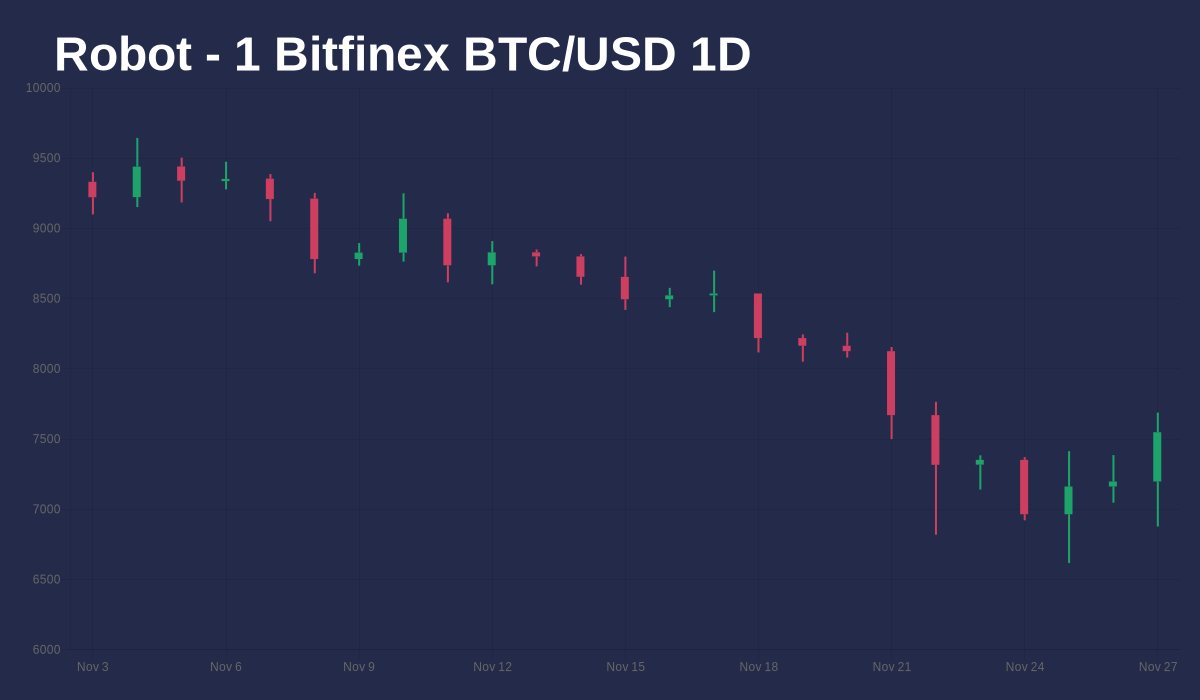
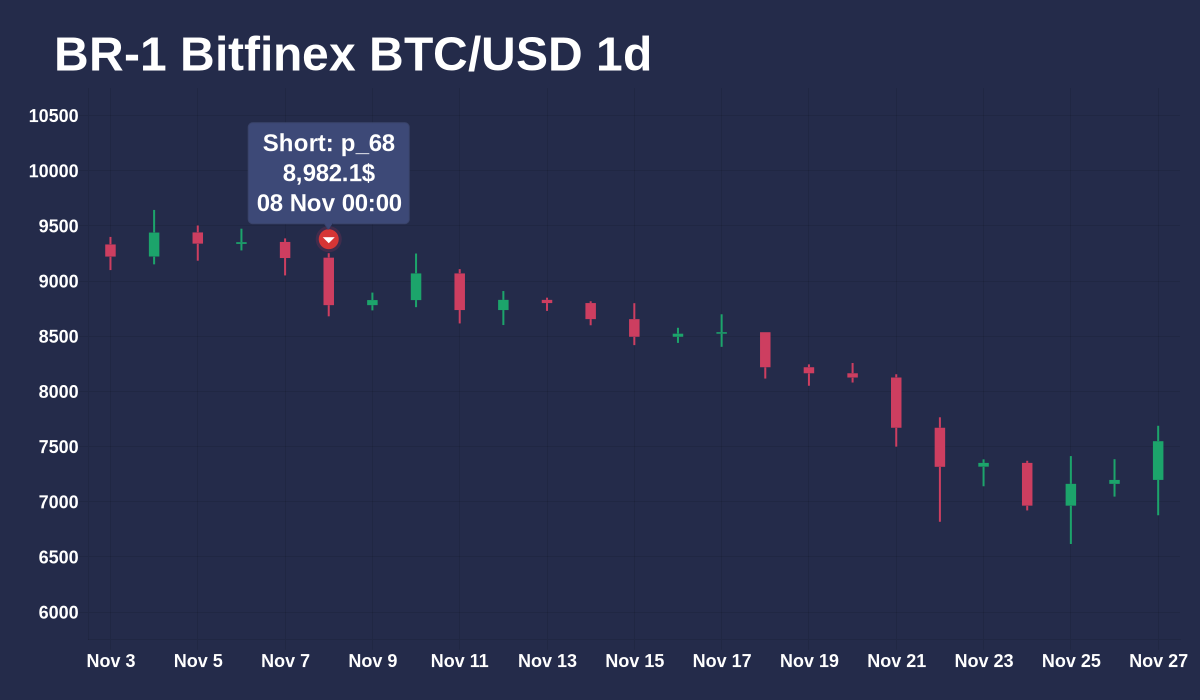
Корректировка отображения

diff --git a/index.js b/index.js
@@ -4,11 +4,13 @@ var chartNode = new ChartjsNode(1200, 700);
 
 const { positions, candles } = require('./data')
 
+const ChartTitle = positions["name"]
+
 const chartData = [];
 const pointData = [];
 
 dataSet(candles);
-setPoints(positions);
+setPoints(positions["robotPositions"]);
 
 const months = {
     '01': 'Jan',
@@ -23,6 +25,13 @@ const months = {
     '10': 'Oct',
     '11': 'Nov',
     '12': 'Dec'
+}
+
+const typeActions = {
+    'short': 'Short',
+    'long': 'Long',
+    'closeShort': 'Close Short',
+    'closeLong': 'Close Long'
 }
 
 chartNode.on('beforeDraw', function (Chart) {
@@ -49,7 +58,7 @@ chartNode.on('beforeDraw', function (Chart) {
     
     const FinancialLinearScale = Chart.scaleService.getScaleConstructor('linear').extend({
 		_parseValue: function (value) {
-			let start, end, min, max;
+            let start, end, min, max;
 
 			if (typeof value.c !== 'undefined') {
 				start = +this.getRightValue(value.l);
@@ -76,7 +85,7 @@ chartNode.on('beforeDraw', function (Chart) {
 			const chart = me.chart;
 			const data  = chart.data;
 			const datasets = data.datasets;
-			const isHorizontal = me.isHorizontal();
+            const isHorizontal = me.isHorizontal();
 
 			function IDMatches(meta) {
 				return isHorizontal ? meta.xAxisID === me.id : meta.yAxisID === me.id;
@@ -90,7 +99,7 @@ chartNode.on('beforeDraw', function (Chart) {
 				
 				if (chart.isDatasetVisible(datasetIndex) && IDMatches(meta)) {
 					helpers.each(dataset.data, function(rawValue, index) {
-						const value = me._parseValue(rawValue);
+                        const value = me._parseValue(rawValue);
 
 						if (isNaN(value.min) || isNaN(value.max) || meta.data[index].hidden) return;
 						if (me.min === null || value.min < me.min) me.min = value.min;
@@ -99,10 +108,10 @@ chartNode.on('beforeDraw', function (Chart) {
 				}
 			});
 
-			const space = (me.max - me.min) * 0.05;
+			const space = (me.max - me.min) * 0.2;
 
 			me.min -= space;
-			me.max += space;
+            me.max += space;
 
 			this.handleTickRangeOptions();
 		}
@@ -122,15 +131,36 @@ chartNode.on('beforeDraw', function (Chart) {
 					major: {
 						enabled: true,
 						fontStyle: 'bold'
-					},
+                    },
+                    fontSize: 18,
+                    fontStyle: 'bold',
+                    fontColor: '#ffffff',
 					source: 'data',
 					maxRotation: 0,
 					autoSkip: true,
-					autoSkipPadding: 75,
+					autoSkipPadding: 25,
 					sampleSize: 100
 				}
 			}],
-			yAxes: [{ type: 'financialLinear' }]
+            yAxes: [{
+                type: 'financialLinear',
+                distribution: 'series',
+				offset: true,
+                ticks: {
+					major: {
+						enabled: true,
+						fontStyle: 'bold'
+                    },
+                    fontSize: 18,
+                    fontStyle: 'bold',
+                    fontColor: '#ffffff',
+					source: 'data',
+					maxRotation: 0,
+					autoSkip: true,
+					autoSkipPadding: 25,
+					sampleSize: 100
+				}
+            }]
 		}
     };
     
@@ -145,15 +175,15 @@ chartNode.on('beforeDraw', function (Chart) {
 			const model = element._model;
 			
 
-			const vscale = me._getValueScale();
-			const base   = vscale.getBasePixel();
+            const vscale = me._getValueScale();
+            const base   = vscale.getBasePixel();
 			const ruler  = me._ruler || me.getRuler();
-			const horizontal = vscale.isHorizontal();
+            const horizontal = vscale.isHorizontal();
 			const vpixels    = me.calculateBarValuePixels(me.index, index, options);
 			const ipixels    = me.calculateBarIndexPixels(me.index, index, ruler, options);
 			const chart      = me.chart;
 			const datasets   = chart.data.datasets;
-			const indexData  = datasets[me.index].data[index];
+            const indexData = datasets[me.index].data[index];
 
 			model.horizontal = horizontal;
 			model.base = reset ? base : vpixels.base;
@@ -176,7 +206,7 @@ chartNode.on('beforeDraw', function (Chart) {
 			Chart.canvasHelpers.clipArea(ctx, this.chart.chartArea);
 
 			for (let i = 0; i < elems.length; i++) {
-				const d = dataset.data[i].o;
+                const d = dataset.data[i].o;
 
 				if (d !== null && d !== undefined && !isNaN(d)) elems[i].draw();
 			}
@@ -272,8 +302,8 @@ chartNode.on('beforeDraw', function (Chart) {
 			ctx.moveTo(x, l);
 			ctx.lineTo(x, Math.max(o, c));
 			ctx.stroke();
-			ctx.fillRect(x - vm.width / 7, c, vm.width / 4, o - c);
-			ctx.closePath();
+			ctx.fillRect(x - vm.width / 6, c, vm.width / 3, o - c);
+            ctx.closePath();
 
 			for (let k = 0; k < pointData.length; k++) if (pointData[k].entry_date_format == t) fillPoin(ctx, {x, h, l, elem: pointData[k]})
 		},
@@ -326,7 +356,7 @@ const chartJsOptions = {
 	type: 'candlestick',
 	data: {
 	  	datasets: [{
-			label: 'Robot - 1 Bitfinex BTC/USD 1D',
+			label: ChartTitle,
 			data: chartData,
 			color: {
 				up: '#1CA46B',
@@ -369,8 +399,7 @@ const chartJsOptions = {
 function fillPoin(ctx, params) {
 	const y  = (params.l < params.h ? params.l : params.h) - 10,
 		data = params.elem,
-		date = (data.entry_date).split("T")[0],
-		time = (data.entry_date).split("T")[1],
+		dateTime = dateTimeFormat(data.entry_date),
 		circleClr = ctx.createLinearGradient(0, 20, 0, 0);
 	
 	let borderClr, firstClr, secondClr
@@ -388,8 +417,6 @@ function fillPoin(ctx, params) {
 		firstClr  = "rgba(153, 153, 153, 0.2)";
 		secondClr = "rgba(153, 153, 153, 0.2)";
 	}
-
-	console.log('data', data)
 		
 	ctx.fillStyle = borderClr
 	ctx.beginPath();
@@ -424,27 +451,43 @@ function fillPoin(ctx, params) {
 
 	ctx.beginPath();
 	ctx.moveTo(params.x, y - 14);
-	ctx.lineTo(params.x - 3, y - 20);
-	ctx.arcTo(params.x - 44, y - 20, params.x - 44, y - 24, 2);
-	ctx.arcTo(params.x - 44, y - 84, params.x - 40, y - 84, 2);
-	ctx.arcTo(params.x + 44, y - 84, params.x + 44, y - 80, 2);
-	ctx.arcTo(params.x + 44, y - 20, params.x + 40, y - 20, 2);
-	ctx.lineTo(params.x + 3, y - 20);
+	ctx.lineTo(params.x - 4, y - 20);
+	ctx.arcTo(params.x - 80, y - 20, params.x - 80, y - 28, 4);
+	ctx.arcTo(params.x - 80, y - 120, params.x - 72, y - 120, 4);
+	ctx.arcTo(params.x + 80, y - 120, params.x + 80, y - 116, 4);
+	ctx.arcTo(params.x + 80, y - 20, params.x + 72, y - 20, 4);
+	ctx.lineTo(params.x + 4, y - 20);
 	ctx,lineWidth = 1
 	ctx.fillStyle = "#3D4977";
 	ctx.strokeStyle = "#39436A";
 	ctx.stroke();
 	ctx.fill();
-	ctx.closePath();
-
-	ctx.font = "bold 12px 'Helvetica Neue', 'Helvetica', 'Arial', 'sans-serif'";
-	ctx.fillStyle = "#AEC6EE";
+    ctx.closePath();
+    
+	ctx.font = "bold 24px 'Helvetica Neue', 'Helvetica', 'Arial', 'sans-serif'";
+	ctx.fillStyle = "#ffffff"; // "#AEC6EE"
 	ctx.textAlign = "center";
-	ctx.fillText(time, params.x, y - 28);
-	ctx.fillText(date, params.x, y - 43);
-	ctx.fillText("$" + data.entry_price, params.x, y - 58);
-	ctx.fillText(data.entry_action + " " + data.code, params.x, y - 73);
+	ctx.fillText(dateTime, params.x, y - 40);
+	ctx.fillText(summFormat(data.entry_price), params.x, y - 70);
+	ctx.fillText(typeActions[data.entry_action] + ": " + data.code, params.x, y - 100);
 	ctx.globalCompositeOperation = "source-over";
+}
+
+function summFormat(params) {
+    let nums = ((params + "").split("").reverse().join("").replace(/(\d{3})/g, "$1,").split("").reverse().join("").replace(/^ /, "")).split(".");
+    let finalStr = nums[0] + (nums[1] ? "." + (nums[1]).substring(0, 2) : "") + "$"
+
+    if (finalStr[0] == ",") finalStr = finalStr.replace(/^,/, '')
+    
+    return finalStr
+}
+
+function dateTimeFormat(params) {
+    let dateTimeStrs = params.split("T")
+    let date = `${dateTimeStrs[0].split("-")[2]} ${months[dateTimeStrs[0].split("-")[1]]}`
+    let time = `${dateTimeStrs[1].split(":")[0]}:${dateTimeStrs[1].split(":")[1]}` 
+
+    return `${date} ${time}`
 }
 
 function dataSet(params) {
@@ -468,13 +511,13 @@ function setPoints(params) {
 		
 		if (elem.entry_action !== null && elem.exit_action !== null) {
 			pointData.push({
-				code: elem.code,
-				entry_price: elem.entry_price,
-				entry_action: elem.entry_action,
-				entry_date: elem.entry_date,
-				entry_date_format: Date.parse(elem.entry_date),
-				exit_price: elem.exit_price,
-				exit_action: elem.exit_action
+				code: elem["code"],
+				entry_price: elem["entryPrice"],
+				entry_action: elem["entryAction"],
+				entry_date: elem["entryDate"],
+				entry_date_format: Date.parse(elem["entryDate"]),
+				exit_price: elem["exitPrice"],
+				exit_action: elem["exitAction"]
 			})
 		}
 	}

diff --git a/data.js b/data.js
@@ -4,10 +4,10 @@ const positions = {
     {
       "code": "p_68",
       "entryPrice": 8982.1,
-      "entryDate": "2019-11-08T09:11:16.28",
+      "entryDate": "2019-11-08T00:00:00",
       "entryAction": "short",
       "exitPrice": 7414.4,
-      "exitDate": "2019-11-27T16:49:06.92",
+      "exitDate": "2019-11-27T16:49:06",
       "exitAction": "closeShort"
     }
   ]
@@ -66,7 +66,7 @@ const candles = [
   },
   {
     "id": "388dcee6-ee4d-437a-8fe2-ae3e8f64af1d",
-    "time": 1573171200000,
+    "time": 1573149600000,
     "timestamp": "2019-11-08T00:00:00",
     "open": 9212.5,
     "high": 9252.9,
